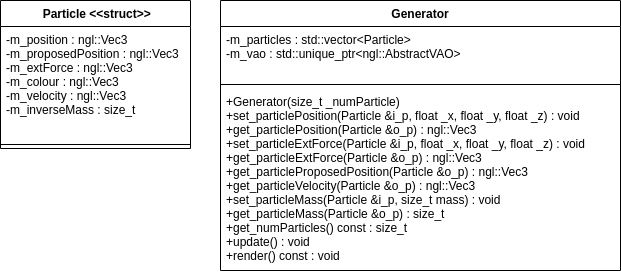
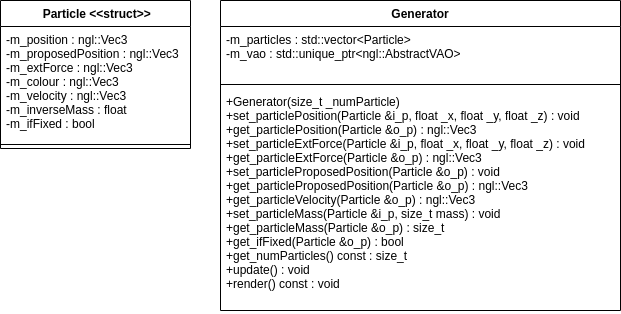
finish proposedPosition update

diff --git a/PBDNGL/src/Generator.cpp b/PBDNGL/src/Generator.cpp
@@ -5,6 +5,9 @@
 #include <ngl/Random.h>
 #include<ngl/VAOFactory.h>
 #include<ngl/SimpleVAO.h>
+#include<string>
+
+const float delta_t=0.005;
 
 Generator::Generator(size_t _numParticle)
 {
@@ -23,6 +26,7 @@ Generator::Generator(size_t _numParticle)
 
 void Generator::set_particlePosition(Particle &i_p, float _x, float _y, float _z)
 {
+
     i_p.m_position.set(_x, _y, _z);
 }
 
@@ -39,6 +43,17 @@ void Generator::set_particleExtForce(Particle &i_p, float _x, float _y, float _z
 ngl::Vec3 Generator::get_particleExtForce(Particle &o_p)
 {
     return o_p.m_extForce;
+}
+
+void Generator::set_particleProposedPosition(Particle &o_p)
+{
+    
+    auto acceleration = o_p.m_extForce*o_p.m_inverseMass;
+    //std::cout<<o_p.m_extForce.m_x<<','<<o_p.m_extForce.m_y<<','<<o_p.m_extForce.m_y<<'\n';
+    //std::cout<<acceleration.m_x<<','<<acceleration.m_y<<','<<acceleration.m_y<<'\n';
+    o_p.m_velocity = o_p.m_velocity+delta_t*o_p.m_extForce;
+    //std::cout<<o_p.m_velocity.m_x<<','<<o_p.m_velocity.m_y<<','<<o_p.m_velocity.m_y<<'\n';
+    o_p.m_proposedPosition = o_p.m_position+delta_t*o_p.m_velocity;
 }
 
 ngl::Vec3 Generator::get_particleProposedPosition(Particle &o_p)
@@ -63,6 +78,11 @@ size_t Generator::get_particleMass(Particle &o_p)
     else return 1/o_p.m_inverseMass;
 }
 
+bool Generator::get_ifFixed(Particle &o_p) 
+{
+    return o_p.m_ifFixed;
+}
+
 size_t Generator::get_numParticles() const
 {
     return m_particles.size();
@@ -70,16 +90,14 @@ size_t Generator::get_numParticles() const
 
 void Generator::update()
 {
-    //std::cout<<"update\n";
-    float _dt=0.01;
+    for(auto &p : m_particles)
+    {
+        set_particleProposedPosition(p);
+        std::cout<<get_particleProposedPosition(p).m_x<<','<<get_particleProposedPosition(p).m_y<<','<<get_particleProposedPosition(p).m_z<<'\n';
+    }
 
-    //  ngl::Vec3 gravity(0,-9.81f,0);
-    // for(auto &p:m_particles)
-    // {
-    //     //direction=velocity
-    //     p.m_velocity+=gravity*_dt*0.5f; //formula: dt_s=1/2*gravity*(dt_t)^2
-    //     p.m_position+=p.m_velocity*_dt;
-    // }
+
+    //float _dt=0.01;
 
     //update the attribute of every particles
 }

diff --git a/PBDNGL/src/NGLScene.cpp b/PBDNGL/src/NGLScene.cpp
@@ -42,8 +42,8 @@ void NGLScene::initializeGL()
   glEnable(GL_DEPTH_TEST);
   // enable multisampling for smoother drawing
   glEnable(GL_MULTISAMPLE);
-  m_generator=std::make_unique<Generator>(6);
-  startTimer(10);
+  m_generator=std::make_unique<Generator>(1);
+
 
   //the basic color and shader
   ngl::ShaderLib::use(ngl::nglColourShader);
@@ -56,6 +56,10 @@ void NGLScene::initializeGL()
   ngl::ShaderLib::setUniform("MVP",m_project*m_view);
   //ngl::ShaderLib::setUniform("Colour",1.0f,0.0f,0.0f,1.0f);
   glPointSize(5);//easy to see the particle
+
+  //m_generator->set_particleExtForce(m_generator->m_particles[0],1.0f,0.0f,0.0f);
+  
+  startTimer(10);
 }
 
 void NGLScene::timerEvent(QTimerEvent *_event)

diff --git a/PBDNGL/include/Generator.h b/PBDNGL/include/Generator.h
@@ -17,10 +17,12 @@ class Generator
     ngl::Vec3 get_particlePosition(Particle &o_p);
     void set_particleExtForce(Particle &i_p, float _x, float _y, float _z);
     ngl::Vec3 get_particleExtForce(Particle &o_p);
+    void set_particleProposedPosition(Particle &o_p);
     ngl::Vec3 get_particleProposedPosition(Particle &o_p);
     ngl::Vec3 get_particleVelocity(Particle &o_p);
     void set_particleMass(Particle &i_p, size_t mass);
     size_t get_particleMass(Particle &o_p);
+    bool get_ifFixed(Particle &o_p);
 
     size_t get_numParticles() const;
     void update();

diff --git a/PBDNGL/test/ParticleTest.cpp b/PBDNGL/test/ParticleTest.cpp
@@ -29,4 +29,14 @@ TEST(Generator,construct)
 
     ASSERT_EQ(g.get_particleMass(g.m_particles[0]),10000);
     ASSERT_EQ(g.get_particleMass(g.m_particles[1]),10000);
+    ASSERT_EQ(g.get_ifFixed(g.m_particles[0]),false);
+}
+
+TEST(Generator,ParticleMove)
+{
+    auto g = Generator(2);
+    g.set_particleExtForce(g.m_particles[0],1.0f,1.0f,1.0f);
+    std::cout<<g.get_particleProposedPosition(g.m_particles[0]).m_x<<'\n';
+    std::cout<<g.get_particleProposedPosition(g.m_particles[0]).m_y<<'\n';
+    std::cout<<g.get_particleProposedPosition(g.m_particles[0]).m_z<<'\n';
 }

diff --git a/PBDNGL/include/Particle.h b/PBDNGL/include/Particle.h
@@ -10,7 +10,8 @@ struct Particle
     ngl::Vec3 m_proposedPosition;
     ngl::Vec3 m_colour;
     ngl::Vec3 m_velocity={0.0f,0.0f,0.0f};
-    size_t m_inverseMass=0.1;
+    float m_inverseMass=0.5;
+    bool m_ifFixed=false;
 };
 
 #endif
